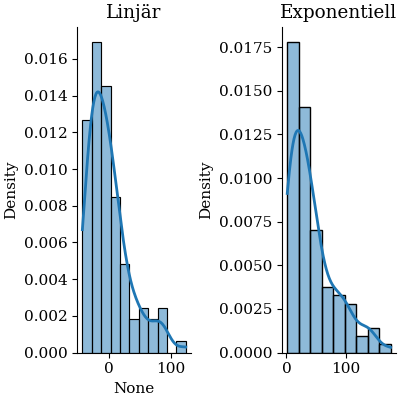
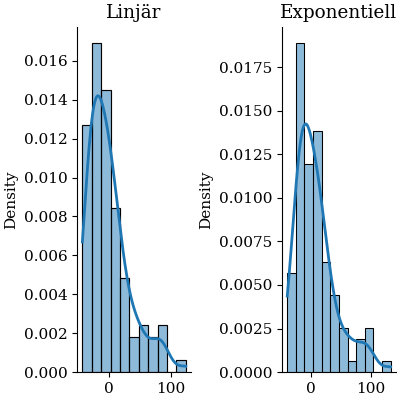
Ändrat intervallen till obs

diff --git a/MatstatProjekt_final.py b/MatstatProjekt_final.py
@@ -160,8 +160,8 @@ plt.show()
 Pb_0=pd.DataFrame({'Year1975' : [50, 50],'Lan_I' : [0, 1]})
 Pred=res_mult_log.get_prediction(Pb_0).summary_frame(alpha=0.05)
 print(str(Pred))
-Pred_S_2025=[np.exp(Pred['mean_ci_lower'][1]),np.exp(Pred['mean'][1]),np.exp(Pred['mean_ci_upper'][1])]
-Pred_B_2025=[np.exp(Pred['mean_ci_lower'][0]),np.exp(Pred['mean'][0]),np.exp(Pred['mean_ci_upper'][0])]
+Pred_S_2025=[np.exp(Pred['obs_ci_lower'][1]),np.exp(Pred['mean'][1]),np.exp(Pred['obs_ci_upper'][1])]
+Pred_B_2025=[np.exp(Pred['obs_ci_lower'][0]),np.exp(Pred['mean'][0]),np.exp(Pred['obs_ci_upper'][0])]
 
 print('PREDIKTION 2025'+'[Undre,Mitten,Övre]')
 print('Blekinge:'+str(Pred_B_2025) )

diff --git a/MatstatProjekt.py b/MatstatProjekt.py
@@ -90,6 +90,7 @@ plt.savefig('Grafer/Histogram.png')
 plt.show()
 
 
+
 #%% Multipel Regression Exponentiell 
 Pb['Lan_I'] = [0 if Lan == 'Blekinge län' else 1 for Lan in Pb['Lan'].values]
 Pb['log_Pb']=np.log(Pb['Pb'])
